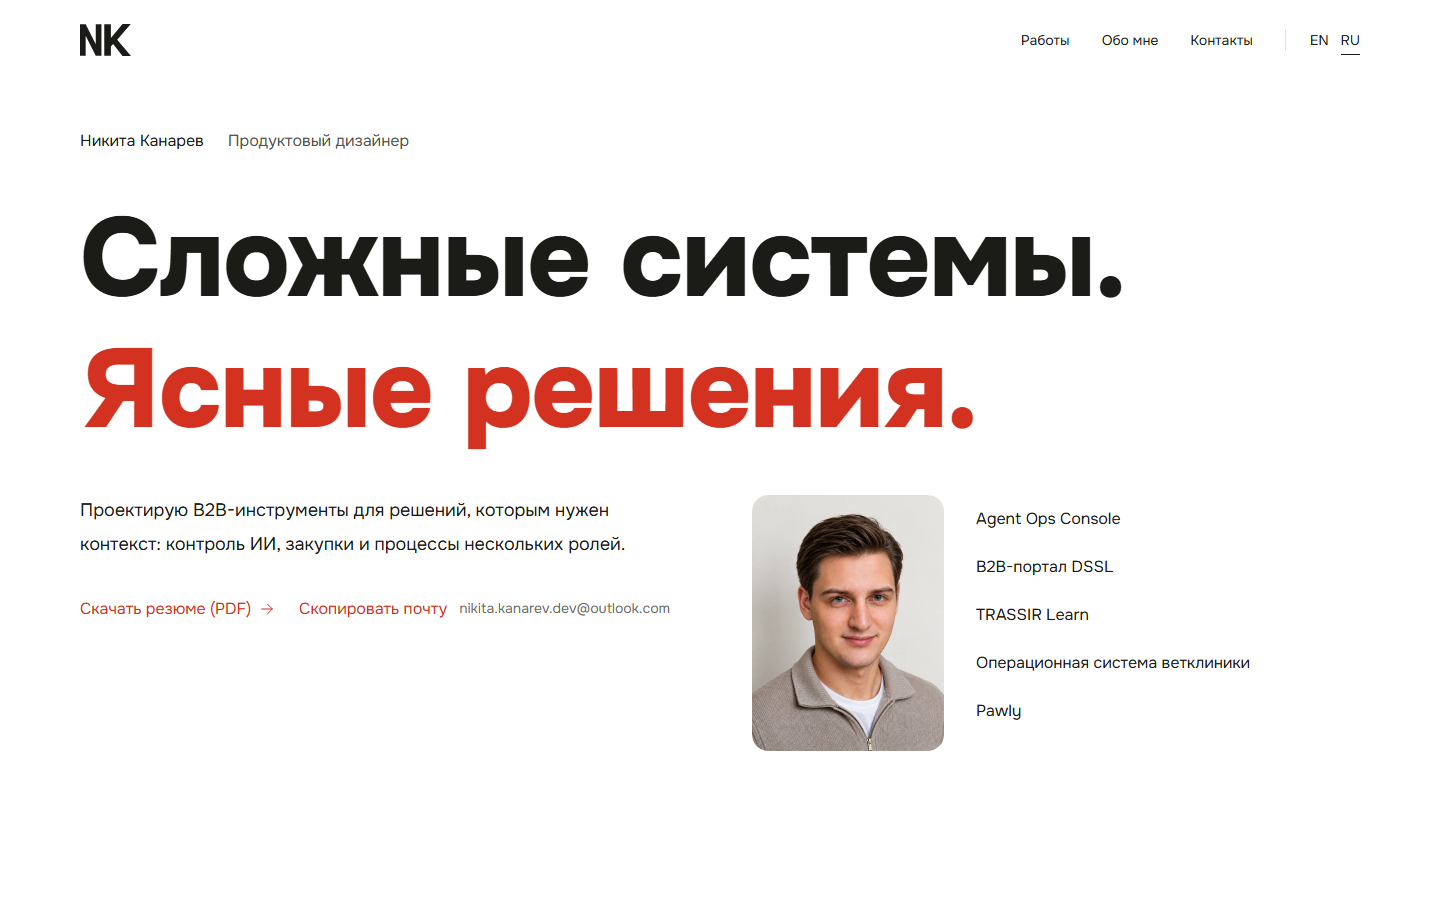
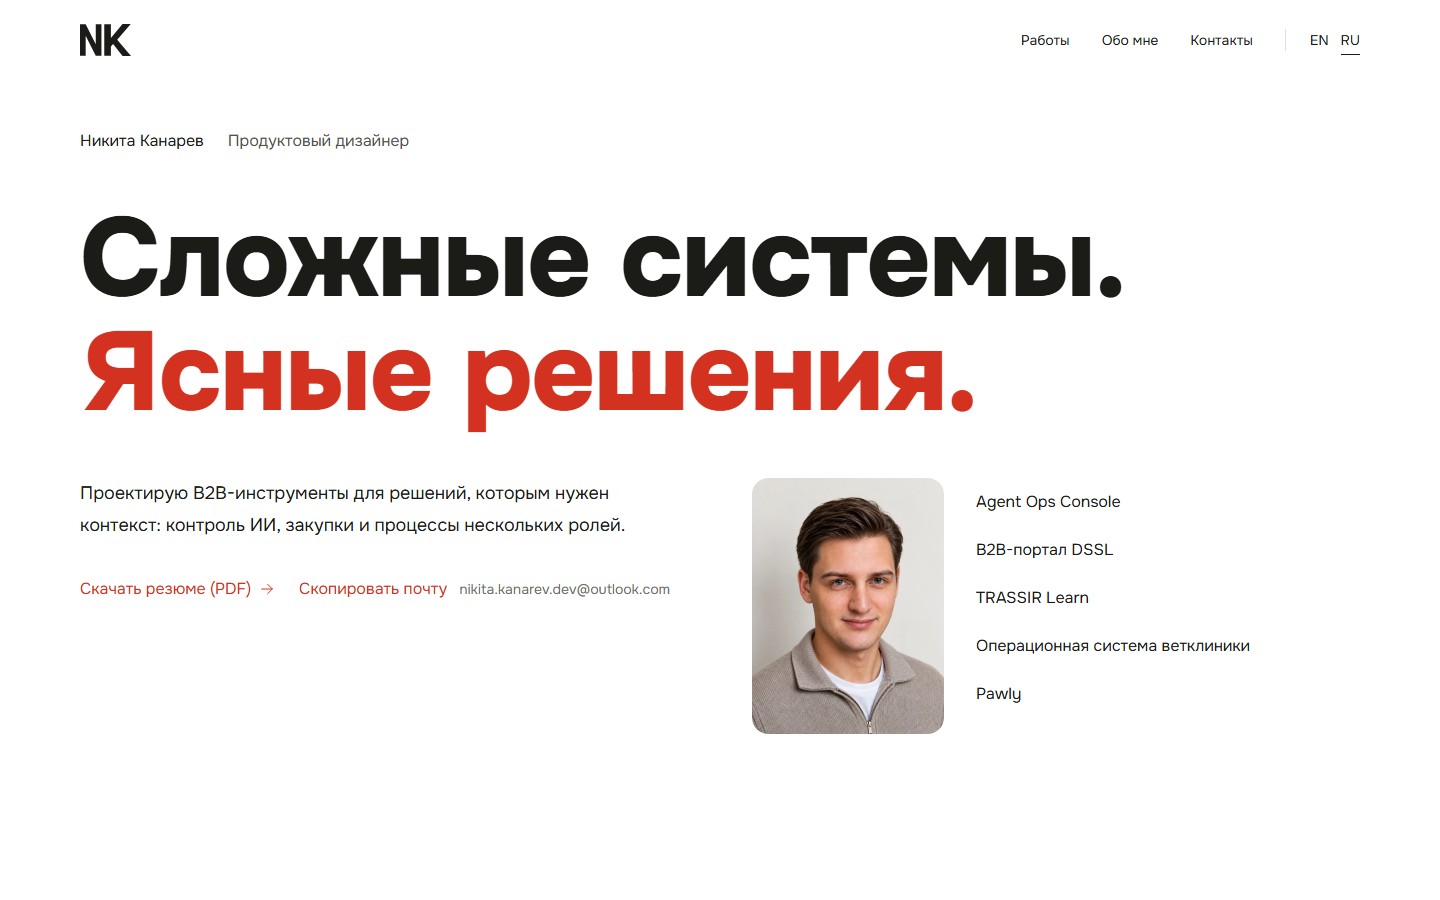
fix(agent-ops): give Russian homepage cover clear copy spacing

diff --git a/src/copy/ru/cases/agent-ops-v2.ts b/src/copy/ru/cases/agent-ops-v2.ts
@@ -35,6 +35,6 @@ export const agentCaseRu: AgentCaseCopy = {
     scopeLabel: 'Мой объём работы', scope: 'Исследование, требования, информационная архитектура, продуктовый UX/UI, дизайн-система, интерактивный прототип на React / Storybook и тестирование.',
     cta: 'Публичный прототип — ранняя версия', href: 'https://agent-ops-console.vercel.app/ru', note: 'Публичная версия предшествует показанным экранам. Заказчик под NDA · синтетические данные интерфейса.',
   },
-  home: { label: 'Контроль ИИ · решение человека', title: 'Сервисный кредит. Обещание клиенту. Одно ответственное решение.', body: 'До согласования видны финансовое последствие и точный текст сообщения клиенту.', alt: 'Реальные последствия из согласования V1.1: кредит $120 в следующем счёте и сообщение, которое получит клиент.' },
+  home: { label: 'Контроль ИИ · решение человека', title: 'Сервисный кредит. Обещание клиенту. Решение человека.', body: 'До согласования видны финансовое последствие и точный текст сообщения клиенту.', alt: 'Реальные последствия из согласования V1.1: кредит $120 в следующем счёте и сообщение, которое получит клиент.' },
 };
 assertAgentPair(agentCaseEn, agentCaseRu);

diff --git a/ds/components.md b/ds/components.md
@@ -589,4 +589,6 @@ Navbar использует Images/logo-portfolio-v4.svg. BaseLayout — favicon
 PortalShot uses intrinsic image height (width:100%, height:auto; picture:block), never a border-box aspect ratio plus contain. `native` preserves square UI edges without a second border or corner mask (Home comparison, decision and commercial line). `detail` adds space-4 inside surface-portal-native around the complete DeltaRow. `panel` frames full cart-bar inner content with space-4 on white; the page separator belongs to the excluded outer bar. Native rounded full-window frames retain the existing frame variant. Thin UI lines use lossless WebP for cart/fulfillment evidence.
 ## Agent Ops Portfolio V2 · 31.10.2026
 
+RU homepage correction: from bp-lg, the editorial column has a min-content minimum so Russian nonbreaking phrases preserve the existing space-12 gap to the screenshot. EN grid and typography stay unchanged.
+
 Case-scoped `agent/AgentCase`, `AgentHome`, `AgentShot`: dedicated composition over genuine accepted product captures. The global case renderer and other themes stay unchanged. `AgentShot` uses a responsive picture, real native dimensions from `src/data/agent-ops-v2-media.json`, an existing MediaZoom target, separate caption and optional full-screen inspection link. No image cropping, perspective, UI overlays or independent content animation. `AgentCase`: complete approval task beside the hero thesis, facts, seven numbered editorial sections, historical context metrics, a six-step editorial operating flow, seven product screen types and a tested/accepted outcome. `AgentHome` pairs a modest editorial statement with the actual consequence scene. Existing semantic surface/space/typographic/focus roles only. Media fields: 24 CSS px of captured-product canvas around all isolated native panel crops; no second mobile frame, space-6 neutral field from bp-md; image-to-caption flow-pair; head-to-image flow-node; modules space-24/space-32. Native source corners remain intact. Both locales share structure/media assertions. Capture-only RU string completion is documented in the image provenance; product source is unchanged.

diff --git a/audit/agent-ops-v2/README.md b/audit/agent-ops-v2/README.md
@@ -4,6 +4,12 @@
 
 The final commit and verified Vercel Preview URL are supplied in the implementation handoff. This worktree is `D:/Claude-projects/sp-agent-ops-v2`.
 
+## P1 RU homepage correction · 31 October 2026
+
+Replaced the cover headline with “Сервисный кредит. Обещание клиенту. Решение человека.” The RU desktop copy column now respects its minimum content width, preserving the existing 48px grid gap at 1024px. Rendered text-to-image clearance: 73.98px at 1440, 47.98px at 1024; mobile has a 32px block gap (34.59px from text glyph bounds). Typography is unchanged.
+
+Updated AFTER: [RU 1440](after/ru-1440-home.webp), [RU 390](after/ru-390-home.webp), supplementary [RU 1024](after/ru-1024-home.webp), plus affected RU full-page/viewport exports. [Focused production-build checks](ru-home-correction-checks.json): no overflow, runtime errors, failed requests or broken cover media; reduced-motion copy visible. EN cover pixels match the accepted captures at both widths. The seven case sections, accepted product imagery, provenance, original BEFORE assets, B2B and other cases remain unchanged. Astro check/build, scoped CSS and public content checks pass. Correction is for final independent sign-off; no merge or production deploy.
+
 ## Changes
 
 - New Agent-only homepage composition uses the actual Action Approvals consequence scene. B2B V2.1 and the other project cards retain their text and media URLs.
